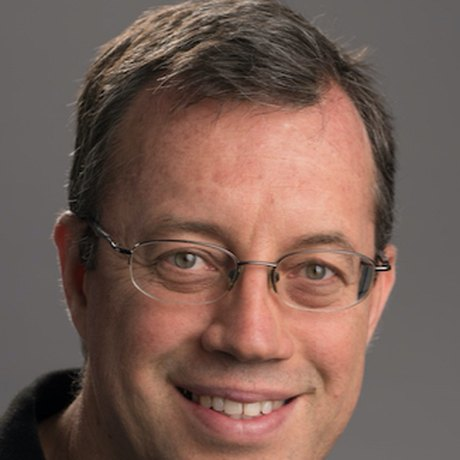
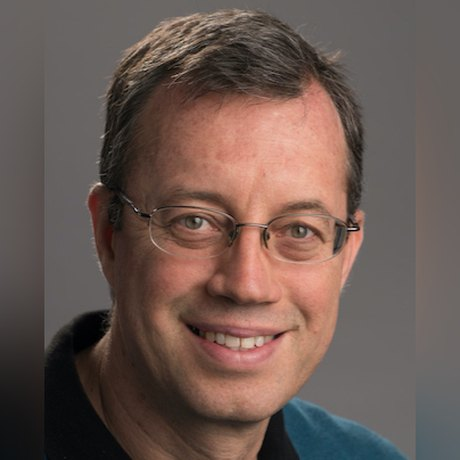
Revise overview and CFP, add OpenReview button, fix photo
Claude-Session: https://claude.ai/code/session_0131oppdQnrHXN39mvkFNYCi

diff --git a/index.html b/index.html
@@ -4,7 +4,7 @@
   <meta charset="UTF-8" />
   <meta name="viewport" content="width=device-width, initial-scale=1.0" />
   <title>Who Verifies the Agents? | NeurIPS 2026 Workshop</title>
-  <meta name="description" content="Who Verifies the Agents? Toward Reliable Agent Development — a NeurIPS 2026 workshop on formalizing verification as a core discipline in agent development." />
+  <meta name="description" content="Who Verifies the Agents? Toward Reliable Agent Development: a NeurIPS 2026 workshop on formalizing verification as a core discipline in agent development." />
 
   <!-- Open Graph / social sharing -->
   <meta property="og:type" content="website" />
@@ -16,16 +16,16 @@
   <link rel="preconnect" href="https://fonts.googleapis.com" />
   <link rel="preconnect" href="https://fonts.gstatic.com" crossorigin />
   <link href="https://fonts.googleapis.com/css2?family=Inter:wght@400;500;600;700;800&family=Newsreader:ital,opsz,wght@0,6..72,400;0,6..72,500;1,6..72,400&display=swap" rel="stylesheet" />
-  <link rel="stylesheet" href="style.css?v=6" />
+  <link rel="stylesheet" href="style.css?v=7" />
 </head>
 <body>
   <!-- Under-construction notice shown on the public site; replaced by the staging banner on /dev/. -->
   <div id="construction-banner" class="construction-banner">
-    🚧 This website is under construction — details below are not final and may change.
+    🚧 This website is under construction. Details below are not final and may change.
   </div>
   <!-- Staging banner: revealed only on the /dev/ preview, stays hidden on the public site. -->
   <div id="preview-banner" class="preview-banner" hidden>
-    ⚙ Preview build — staging version served at <code>/dev/</code>. This is not the public site.
+    ⚙ Preview build: staging version served at <code>/dev/</code>. This is not the public site.
   </div>
   <script>
     if (window.location.pathname.startsWith('/dev/')) {
@@ -42,12 +42,11 @@
         <span></span><span></span><span></span>
       </label>
       <ul class="nav-links">
-        <li><a href="#about">About</a></li>
+        <li><a href="#about">Overview</a></li>
         <li><a href="#pillars">Themes</a></li>
         <li><a href="#cfp">Call for Papers</a></li>
         <li><a href="#dates">Dates</a></li>
         <li><a href="#speakers">Speakers</a></li>
-        <li><a href="#schedule">Schedule</a></li>
         <li><a href="#organizers">Organizers</a></li>
       </ul>
     </nav>
@@ -67,7 +66,7 @@
         </p>
         <div class="hero-actions">
           <a class="btn btn-primary" href="#cfp">Call for Papers</a>
-          <a class="btn btn-ghost" href="#about">Read the Overview</a>
+          <a class="btn btn-ghost" href="https://openreview.net/group?id=NeurIPS.cc/2026/Workshop/Verify-Agents">Submit on OpenReview</a>
         </div>
         <p class="hero-meta">Sydney, Australia · Dec 11 or 12, 2026 · Co-located with NeurIPS</p>
       </div>
@@ -76,32 +75,20 @@
     <!-- About -->
     <section id="about" class="section">
       <div class="section-inner narrow">
-        <h2 class="section-title">About the Workshop</h2>
+        <h2 class="section-title">Overview</h2>
         <p>
-          Agent development is undergoing a crucial shift. Despite remarkable advances in
-          agents that reason, plan, and operate in open-ended environments, their
-          construction remains fragmented, dominated by manual prompt engineering and ad-hoc
-          scaffolding. The next leap is toward scalable, autonomous agent development
-          grounded in systematic engineering principles that ensure reliability in dynamic
-          environments.
+          Despite remarkable advances in agents that reason, plan, and operate in open-ended
+          environments, reliably verifying their improvements remains an unsolved challenge.
+          Verification is the ability to determine whether a change to an agent (such as a
+          prompt update, a new tool integration, or a modification to its reasoning process)
+          produces a genuine improvement in capability or reliability.
         </p>
         <p>
-          The bottleneck is not a deficit of agentic frameworks but
-          <strong>verification</strong>: the ability to reliably determine whether a change
-          to an agent — a prompt update, a new tool integration, a change in reasoning
-          logic — is a genuine improvement. Verification works in controlled settings
-          (formal math, competitive programming, coding) but remains shallow and noisy in
-          general agentic tasks, causing performance to plateau or silently regress during
-          development. Prevailing pipelines lean on limited signals — isolated outcome
-          rewards or LLM-as-judge scores — that are too narrow to capture long-horizon
-          behavior and susceptible to reward hacking.
-        </p>
-        <p>
-          Unlocking reliable agents in practice requires verification frameworks that are
-          broader in scope (diverse tasks and edge cases), deeper in analysis (process-level
-          reasoning), and more heterogeneous (beyond scalar rewards). This workshop convenes
-          researchers from reinforcement learning, agentic AI, evaluation and benchmarking,
-          AI safety and red-teaming, simulation, and ML systems around three pillars.
+          Verification works in controlled settings (formal math, competitive programming,
+          coding) but remains shallow and noisy for general agentic tasks, causing
+          performance to plateau or silently regress during development. This workshop
+          convenes researchers to tackle verification as a first-class research problem for
+          reliable agent development.
         </p>
       </div>
     </section>
@@ -111,7 +98,7 @@
       <div class="section-inner">
         <h2 class="section-title">Three Pillars of Verification</h2>
         <p class="section-intro">
-          We invite work spanning — but not limited to — these three interconnected themes.
+          We invite work spanning, but not limited to, these three interconnected themes.
         </p>
         <div class="pillars">
           <article class="pillar">
@@ -119,7 +106,7 @@
             <h3>Safety &amp; Robustness of Verification</h3>
             <p>
               Verification must evolve with agents: robust verifiers that prevent reward
-              hacking, resist harness specification gaming, and maintain alignment — scaling
+              hacking, resist harness specification gaming, and maintain alignment, scaling
               from outcome checks to process-level signals like traces, plans, and tool-call
               sequences.
             </p>
@@ -129,8 +116,8 @@
             <h3>Environment-Grounded Verification &amp; Simulators</h3>
             <p>
               For open-ended tasks lacking closed-form metrics, the environment itself is the
-              ground truth. Faithful simulators of agentic tasks — from multi-agent kernel
-              optimization to self-optimizing production systems — can become a verification
+              ground truth. Faithful simulators of agentic tasks, from multi-agent kernel
+              optimization to self-optimizing production systems, can become a verification
               infrastructure layer.
             </p>
           </article>
@@ -151,22 +138,6 @@
     <section id="cfp" class="section">
       <div class="section-inner narrow">
         <h2 class="section-title">Call for Papers</h2>
-
-        <h3 class="cfp-h3">Overview</h3>
-        <p>
-          Despite remarkable advances in agents that reason, plan, and operate in open-ended
-          environments, reliably verifying their improvements remains an unsolved challenge.
-          Verification is the ability to determine whether a change to an agent — such as a
-          prompt update, a new tool integration, or a modification to its reasoning
-          process — produces a genuine improvement in capability or reliability.
-        </p>
-        <p>
-          Verification works in controlled settings (formal math, competitive programming,
-          coding) but remains shallow and noisy for general agentic tasks, causing
-          performance to plateau or silently regress during development. This workshop
-          convenes researchers to tackle verification as a first-class research problem for
-          reliable agent development.
-        </p>
 
         <h3 class="cfp-h3">Topics of Interest</h3>
         <p>We invite submissions across three core pillars, as well as topics at their intersection:</p>
@@ -208,7 +179,7 @@
 
         <h3 class="cfp-h3">Submission Guidelines</h3>
         <ul class="guide-list">
-          <li><strong>Format:</strong> Papers should be between 4 to 9 pages (excluding references and appendices), using the NeurIPS 2026 template. We also welcome demo papers, which should be no more than 4 pages.</li>
+          <li><strong>Format:</strong> Papers should be between 4 to 9 pages (excluding references and appendices), using the <a href="https://neurips.cc/Conferences/2026/CallForPapers">NeurIPS 2026 template</a>. We also welcome demo papers, which should be no more than 4 pages.</li>
           <li><strong>Dual submission policy:</strong> We welcome work that is under review or has been recently published at other venues.</li>
           <li><strong>Review:</strong> Reviews will be double blind. Reviewers will not use LLMs to evaluate submissions.</li>
           <li><strong>Presentation:</strong> Accepted papers will be presented as posters; select papers will be chosen for oral presentations or lightning talks.</li>
@@ -218,9 +189,6 @@
           Submissions and reviewing are handled through
           <a href="https://openreview.net/group?id=NeurIPS.cc/2026/Workshop/Verify-Agents"><strong>OpenReview</strong></a>.
         </p>
-        <p class="cfp-note">
-          Organizers will not submit work to the workshop.
-        </p>
       </div>
     </section>
 
@@ -228,12 +196,11 @@
     <section id="dates" class="section section-alt">
       <div class="section-inner narrow">
         <h2 class="section-title">Important Dates</h2>
-        <p class="tag tag-tentative">Tentative — subject to change</p>
+        <p class="tag tag-tentative">Tentative, subject to change</p>
         <ul class="dates">
           <li><span class="date-label">Call for papers released</span><span class="date-value">Mid-July 2026</span></li>
           <li><span class="date-label">Submission deadline</span><span class="date-value">August 29, 2026</span></li>
           <li><span class="date-label">Author notification</span><span class="date-value">September 29, 2026</span></li>
-          <li><span class="date-label">Camera-ready deadline</span><span class="date-value">TBA</span></li>
           <li><span class="date-label">Workshop date</span><span class="date-value">Dec 11 or 12, 2026</span></li>
         </ul>
         <p class="tz-note">The exact workshop day (Friday, Dec 11 or Saturday, Dec 12) will be confirmed once assigned by NeurIPS. All deadlines are 23:59 Anywhere on Earth (AoE) unless otherwise noted.</p>
@@ -280,52 +247,6 @@
       </div>
     </section>
 
-    <!-- Schedule -->
-    <section id="schedule" class="section section-alt">
-      <div class="section-inner">
-        <h2 class="section-title">Schedule</h2>
-        <p class="tag tag-tentative">Tentative — subject to change</p>
-        <p class="section-intro">
-          A full day of invited talks, orals, two poster sessions, a live-verifier demo
-          session, and a panel discussion themed
-          <em>“What can’t we verify yet, and what would it take?”</em>
-        </p>
-        <div class="sched-cols">
-          <div class="sched-col">
-            <h3 class="sched-heading">Morning</h3>
-            <ul class="schedule">
-              <li><span class="sched-time">08:30 – 08:45</span><span class="sched-item">Opening Remarks</span></li>
-              <li><span class="sched-time">08:45 – 09:15</span><span class="sched-item">Invited Speaker 1</span></li>
-              <li><span class="sched-time">09:15 – 09:45</span><span class="sched-item">Invited Speaker 2</span></li>
-              <li><span class="sched-time">09:45 – 10:15</span><span class="sched-item">Orals (3 talks)</span></li>
-              <li><span class="sched-time">10:15 – 10:30</span><span class="sched-item">Coffee Break</span></li>
-              <li><span class="sched-time">10:30 – 11:00</span><span class="sched-item">Lightning Talks</span></li>
-              <li><span class="sched-time">11:00 – 11:15</span><span class="sched-item">Research Speed Meeting</span></li>
-              <li><span class="sched-time">11:15 – 12:00</span><span class="sched-item">Poster Session 1</span></li>
-            </ul>
-          </div>
-          <div class="sched-col">
-            <h3 class="sched-heading">Afternoon</h3>
-            <ul class="schedule">
-              <li><span class="sched-time">1:00 – 1:30</span><span class="sched-item">Demo Session</span></li>
-              <li><span class="sched-time">1:30 – 1:45</span><span class="sched-item">What I Changed My Mind About</span></li>
-              <li><span class="sched-time">1:45 – 2:15</span><span class="sched-item">Invited Speaker 3</span></li>
-              <li><span class="sched-time">2:15 – 2:45</span><span class="sched-item">Invited Speaker 4</span></li>
-              <li><span class="sched-time">2:45 – 3:30</span><span class="sched-item">Panel Discussion</span></li>
-              <li><span class="sched-time">3:30 – 3:45</span><span class="sched-item">Coffee Break</span></li>
-              <li><span class="sched-time">3:45 – 4:30</span><span class="sched-item">Poster Session 2</span></li>
-              <li><span class="sched-time">4:30 – 5:00</span><span class="sched-item">Closing Remarks</span></li>
-            </ul>
-          </div>
-        </div>
-        <p class="sched-note">
-          Interactive formats: opt-in <strong>lightning talks</strong> by accepted-paper
-          authors, a <strong>research speed meeting</strong> icebreaker, and
-          <strong>“What I changed my mind about”</strong> — brief volunteer talks on research
-          views that have evolved.
-        </p>
-      </div>
-    </section>
 
     <!-- Organizers -->
     <section id="organizers" class="section">

diff --git a/style.css b/style.css
@@ -289,21 +289,12 @@ a:hover { text-decoration: underline; }
 /* --------------------------------------------------------------------------
    Topic list / CFP
    -------------------------------------------------------------------------- */
-.topic-list { padding-left: 0; list-style: none; margin: 8px 0 28px; }
+.topic-list { list-style: disc; padding-left: 26px; margin: 8px 0 24px; }
 .topic-list li {
-  position: relative;
-  padding: 8px 0 8px 30px;
-  border-bottom: 1px solid var(--line);
+  padding: 4px 0;
   color: var(--ink);
 }
-.topic-list li::before {
-  content: "✓";
-  position: absolute;
-  left: 0;
-  top: 8px;
-  color: var(--accent);
-  font-weight: 700;
-}
+.topic-list li::marker { color: var(--ink-soft); }
 .cfp-note, .tz-note {
   font-size: 0.95rem;
   color: var(--ink-faint);
